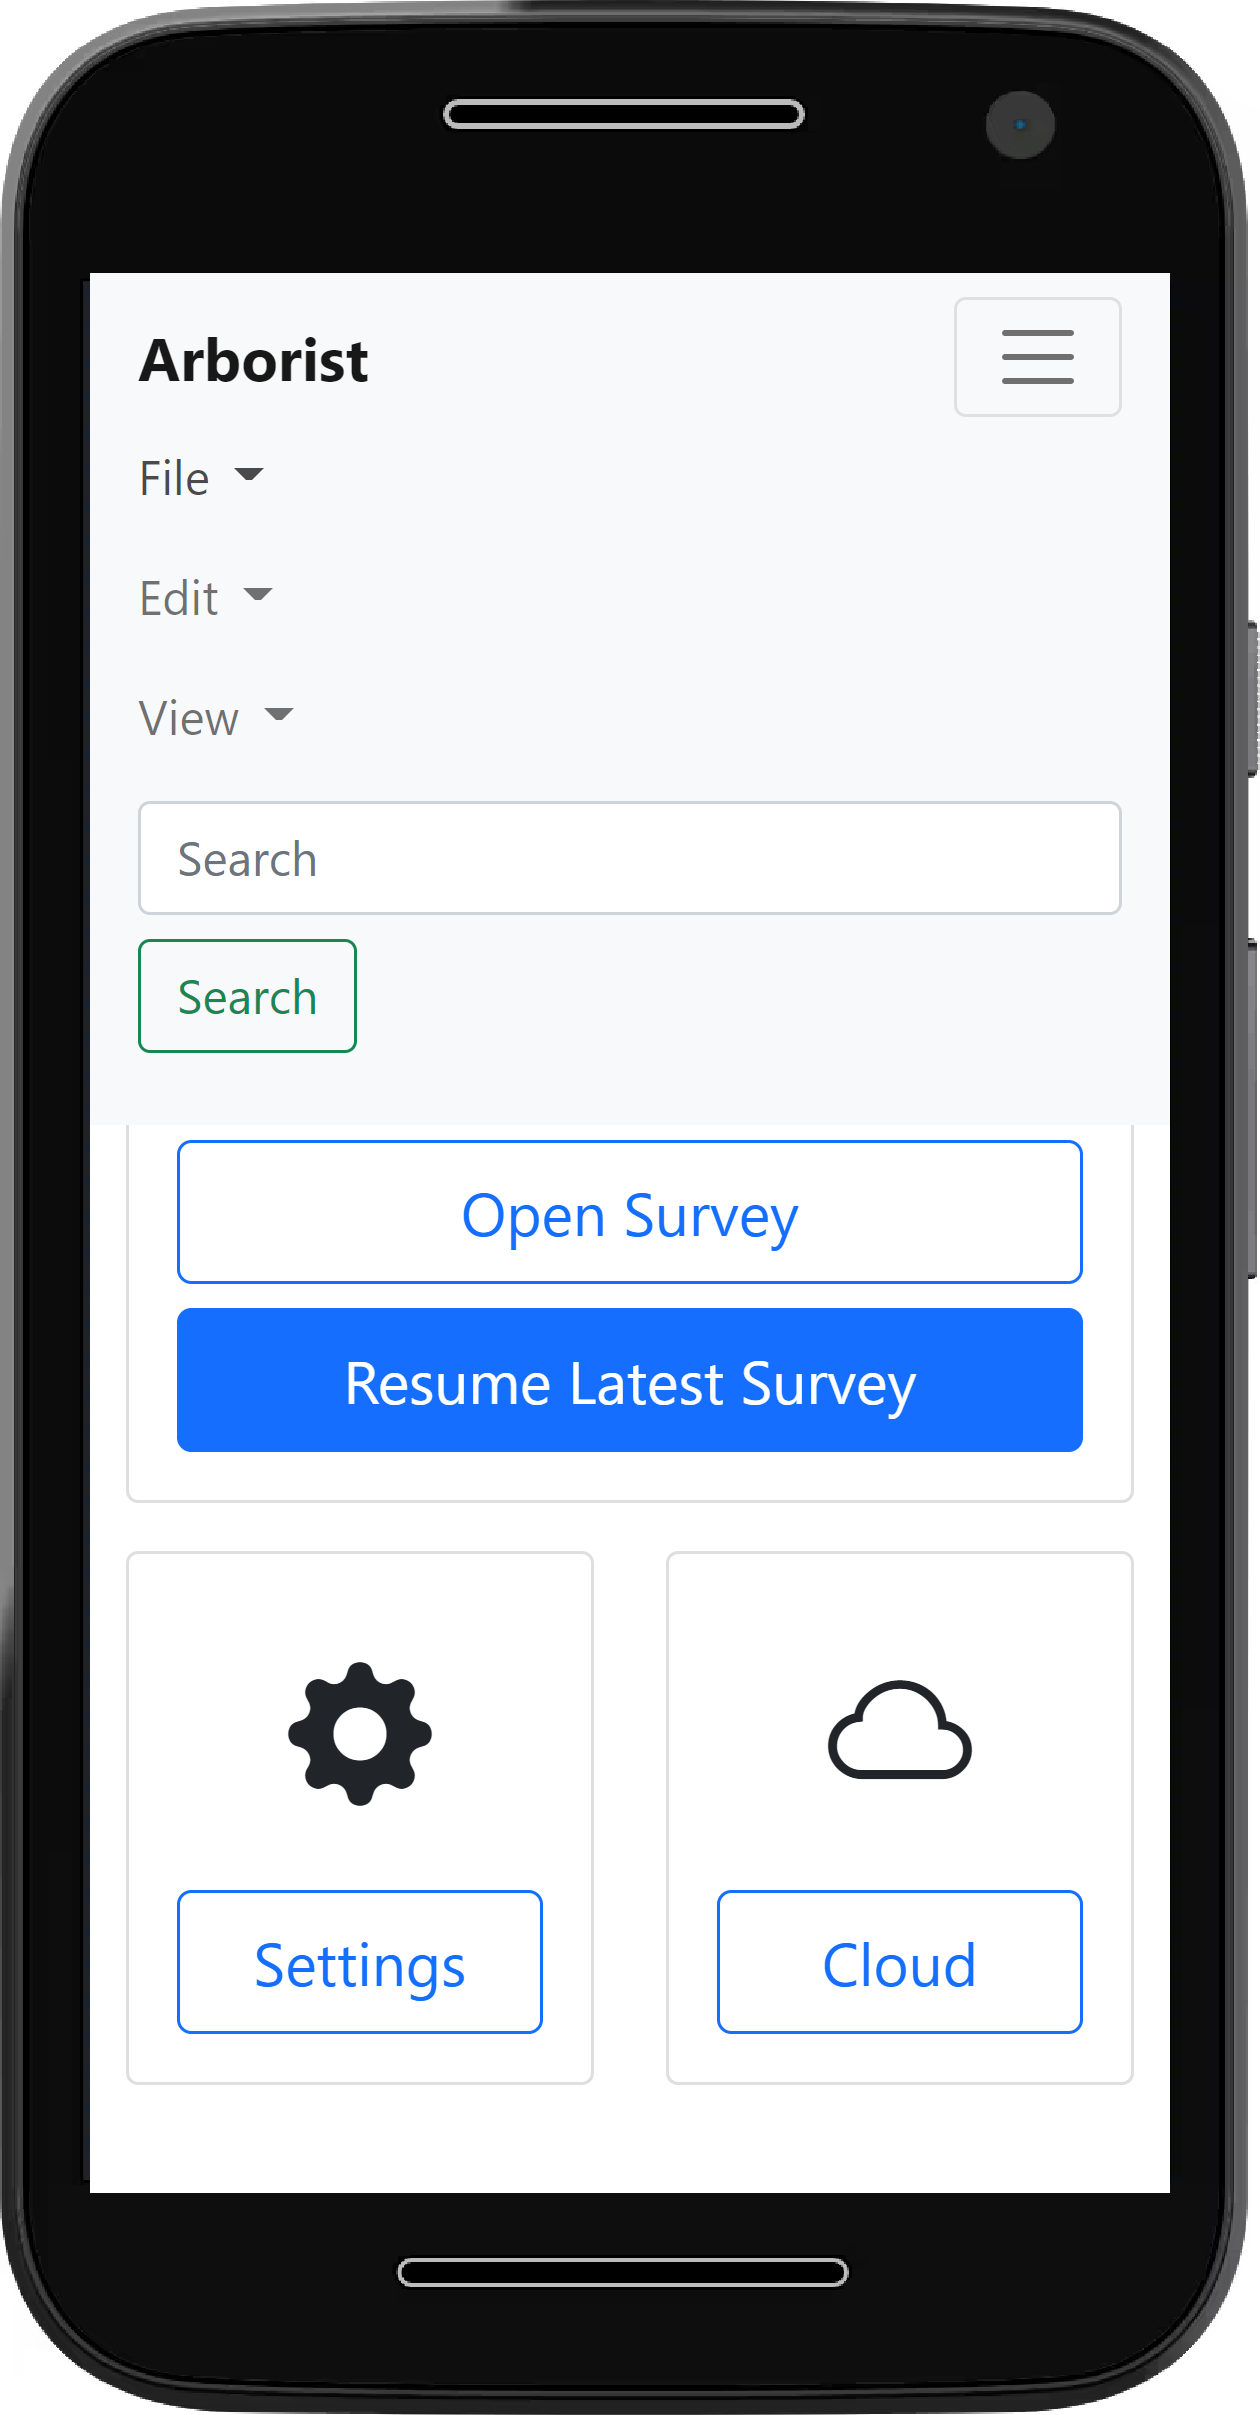
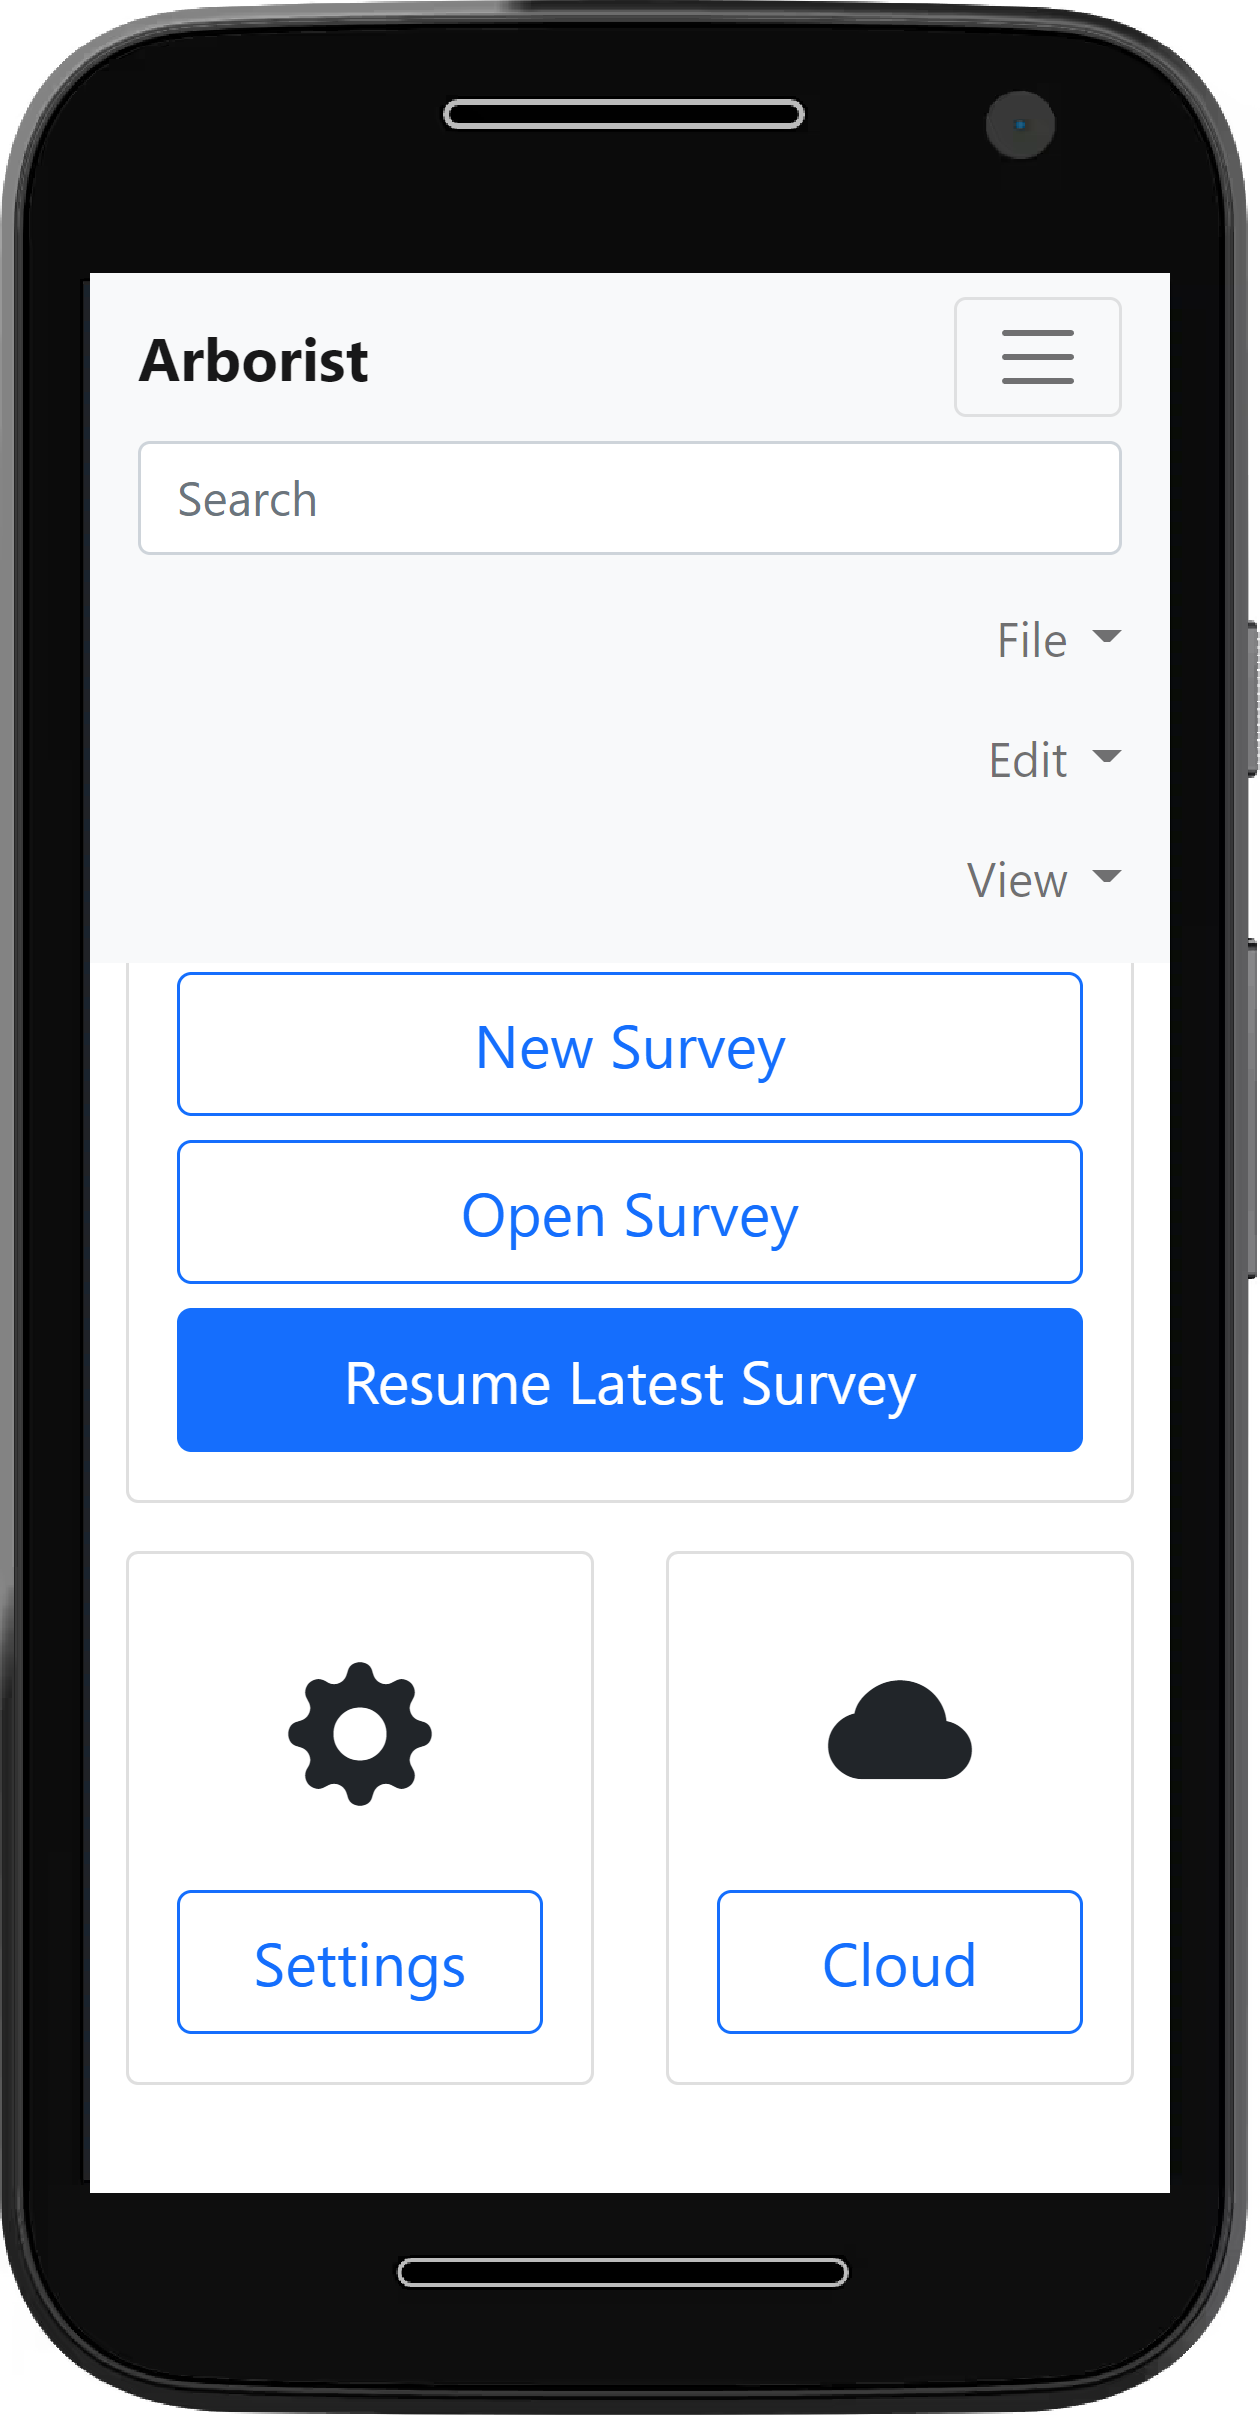
added screenshots of the application and further developed the interface

diff --git a/styles/main.css b/styles/main.css
@@ -160,3 +160,17 @@ tr:nth-child(even) {background: rgb(194, 194, 194)}
 .modal-footer h5{
     margin-right: auto !important;
 }
+
+.file-box{
+    display: inline-block;
+    text-align: center;
+    padding: .5em;
+}
+
+.file-box i{
+    font-size: 4em;
+}
+
+.file-box:hover{
+    background-color: rgb(190, 190, 190);
+}

diff --git a/scripts/scripts.js b/scripts/scripts.js
@@ -4,6 +4,8 @@ $(document).ready(function() {
         info: false,
         "dom": '<"top"i>rt<"bottom"flp><"clear">'
     } );
+
+    $('#openFileModal').modal('toggle');
 } );
 
 

diff --git a/includes/components/modals/settings.php b/includes/components/modals/settings.php
@@ -1,18 +1,91 @@
-<div class="modal fade" onclick ="settingsModal()" tabindex="-1" role="dialog" aria-labelledby="exampleModalLabel" aria-hidden="true">
+<div class="modal fade" id="settingsModal" tabindex="-1" role="dialog" aria-labelledby="exampleModalLabel" aria-hidden="true">
     <div class="modal-dialog" role="document">
       <div class="modal-content">
         <div class="modal-header">
           <h5 class="modal-title" id="exampleModalLabel"><i class="bi bi-gear-fill"></i> Settings</h5>
-          <button type="button" class="close" aria-label="Close" onclick="editCellModal()">
+          <button type="button" class="close" aria-label="Close" onclick="settingsModal()">
             <span aria-hidden="true">&times;</span>
           </button>
         </div>
         <div class="modal-body">
-          <form>
-            <div class="form-group">
-              <input type="text" class="form-control" id="recipient-name" placeholder="#.##">
+            <h6>Survey Settings</h6>
+            <form>
+                <div class="form-group">
+                    <div class="form-check form-switch">
+                        <input class="form-check-input" type="checkbox" id="flexSwitchCheckDefault" checked>
+                        <label class="form-check-label" for="flexSwitchCheckDefault">Record GPS position</label>
+                    </div>
+                    <div class="form-check form-switch">
+                        <input class="form-check-input" type="checkbox" id="flexSwitchCheckChecked" checked>
+                        <label class="form-check-label" for="flexSwitchCheckChecked">Record atmospheric conditions</label>
+                    </div>
+                    <div class="form-check form-switch">
+                        <input class="form-check-input" type="checkbox" id="flexSwitchCheckChecked">
+                        <label class="form-check-label" for="flexSwitchCheckChecked">Auto-classify new observations</label>
+                    </div>
+                </div>
+            </form>
+            <hr>
+            <h6>Instrument Settings</h6>
+
+            <form>
+                <div class="form-group">
+                    <div class="form-check form-switch">
+                        <input class="form-check-input" type="checkbox" id="flexSwitchCheckChecked" >
+                        <label class="form-check-label" for="flexSwitchCheckChecked">External GPS Receiver</label>
+                    </div>
+                    <div class="form-check form-switch">
+                        <input class="form-check-input" type="checkbox" id="flexSwitchCheckChecked" disabled>
+                        <label class="form-check-label" for="flexSwitchCheckChecked">Enable Differential GPS Mode</label>
+                    </div>
+                </div>
+            </form>
+
+
+            <hr>
+            <h6>File Settings</h6>
+            <form>
+                <div class="form-group">
+        <div class="input-group mb-3">
+            <div class="custom-file">
+                <input type="file" class="custom-file-input" id="inputGroupFile02">
+                <label class="custom-file-label" for="inputGroupFile02"><i class="bi bi-folder2-open"></i> Default File Path</label>
             </div>
-          </form>
+        </div>
+                </div>
+
+            Default File Format:
+
+            <div class="form-check">
+                <input class="form-check-input" type="radio" name="flexRadioDefault" id="flexRadioDefault1">
+                <label class="form-check-label" for="flexRadioDefault1">
+                    .csv
+                </label>
+                </div>
+            <div class="form-check">
+                <input class="form-check-input" type="radio" name="flexRadioDefault" id="flexRadioDefault2" checked>
+                <label class="form-check-label" for="flexRadioDefault2">
+                    .xls
+                </label>
+            </div>
+
+            <div class="form-check">
+                <input class="form-check-input" type="radio" name="flexRadioDefault" id="flexRadioDefault3" checked>
+                <label class="form-check-label" for="flexRadioDefault3">
+                    .txt
+                </label>
+            </div>
+            </form>
+
+            <hr>
+            <h6>Cloud Settings</h6>
+            <div class="form-check">
+                <input class="form-check-input" type="checkbox" value="" id="defaultCheck2">
+                <label class="form-check-label" for="defaultCheck2">
+                    Save observations to cloud
+                </label>
+            </div>
+
         </div>
         <div class="modal-footer">
           <button type="button" class="btn btn-primary">Change</button>

diff --git a/newsurvey.php b/newsurvey.php
@@ -1,9 +1,102 @@
 <?php include "includes/header.php" ?>
 
+<div class = "row">
+<div class = "col-sm-12">
+    <div class="card">
+        <div class="card-body">
+            <h4><i class="bi bi-map-fill"></i> Map</h4>
+            <div id="map"></div>
+        </div>
+    </div>
+</div>
 
 <div class = "col-sm-12">
-
+    <div class="card button-card">
+        <div class="card-body">
+        <button type="button" class="btn btn-primary btn-lg btn-block" onclick = "newObservationModal()">New Observation <i class="bi bi-geo-alt-fill"></i></button>
+        </div>
+    </div>
 </div>
 
 
+<div class = "col-sm-12">
+    <div class="card">
+        <div class="card-body">
+            <h4><i class="bi bi-info-circle-fill"></i> Details</h4>
+            <p>November 1st, 2021, 11:00:10AST</p>
+
+            <form>
+
+              <div class="form-group">
+                <label for="formGroupExampleInput2">Field Notes</label>
+                <textarea class="form-control" id="formGroupExampleInput2" rows="3" placeholder="Atmospheric pressure: 1013.2mbar&#13Instrument number: A967G1"></textarea>
+              </div>
+
+            </form>
+
+        </div>
+    </div>
+</div>
+
+<div class = "col-sm-12">
+    <div class="card point-list">
+        <div class="card-body">
+            <h4><i class="bi bi-geo-alt-fill"></i> Observations</h4>
+            <div class = "table-wrap">        
+                <table id = "pointTable" class="table">
+                    <thead>
+                    <tr>
+                        <th>ID</th>
+                        <th>Species</th>
+                        <th>Diam.</th>
+                        <th>Height</th>
+                        <th>Age</th>
+                        <th>Aspect</th>
+                        <th>Slope</th>
+                        <th>Notes</th>
+                    </tr>
+                    </thead>
+                    <tbody>
+                    
+                    </tbody>
+                </table>
+            </div>
+        </div>
+    </div>
+</div>
+
+
+
+<script src="https://d19vzq90twjlae.cloudfront.net/leaflet-0.7/leaflet.js">
+</script>
+
+<script>
+
+var map = L.map('map').setView([44.668349, -63.571144], 18);
+mapLink = 
+    '<a href="http://openstreetmap.org">OpenStreetMap</a>';
+L.tileLayer(
+    'http://{s}.tile.openstreetmap.org/{z}/{x}/{y}.png', {
+    attribution: '&copy; ' + mapLink + ' Contributors',
+    maxZoom: 18,
+    }).addTo(map);
+
+var marker = L.marker([44.668349, -63.571144]).addTo(map);
+
+var greenIcon = L.icon({
+    iconUrl: 'leaf-green.png',
+    shadowUrl: 'leaf-shadow.png',
+
+    iconSize:     [38, 95], // size of the icon
+    shadowSize:   [50, 64], // size of the shadow
+    iconAnchor:   [22, 94], // point of the icon which will correspond to marker's location
+    shadowAnchor: [4, 62],  // the same for the shadow
+    popupAnchor:  [-3, -76] // point from which the popup should open relative to the iconAnchor
+});
+
+
+
+</script>
+
 <?php include "includes/footer.php" ?>
+

diff --git a/includes/components/modals/newobservation.php b/includes/components/modals/newobservation.php
@@ -10,6 +10,22 @@
         </button>
       </div>
       <div class="modal-body">
+      <div id="map2"></div>   
+      <form>
+            <div class="input-group mb-3">
+                
+                <div class="input-group-prepend">
+                    <span class="input-group-text" id="basic-addon1"> <a href ="#">Lat.</a></span>
+                </div>
+                <input type="text" class="form-control" placeholder="0.0000" aria-label="Username" aria-describedby="basic-addon1">
+
+                <div class="input-group-prepend">
+                    <span class="input-group-text" id="basic-addon1"> <a href ="#" data-toggle="modal" data-target="#exampleModal2">Long.</a></span>
+                </div>
+                <input type="text" class="form-control" placeholder="0.0000" aria-label="Username" aria-describedby="basic-addon1">
+
+            </div>
+        </form>
       <p>November 1st, 2021, 13:05:10AST</p>
         <form class="form-inline">
             <div class="form-group">
@@ -22,6 +38,7 @@
                 <option>Birch</option>
                 </select>
             </div>
+            
 
             <div class="input-group mb-3">
                
@@ -60,26 +77,9 @@
 
 
         </form>
-        
-        <div id="map2"></div>
 
-        <form>
-            <div class="input-group mb-3">
-                
-                <div class="input-group-prepend">
-                    <span class="input-group-text" id="basic-addon1"> <a href ="#">Lat.</a></span>
-                </div>
-                <input type="text" class="form-control" placeholder="0.0000" aria-label="Username" aria-describedby="basic-addon1">
-
-                <div class="input-group-prepend">
-                    <span class="input-group-text" id="basic-addon1"> <a href ="#" data-toggle="modal" data-target="#exampleModal2">Long.</a></span>
-                </div>
-                <input type="text" class="form-control" placeholder="0.0000" aria-label="Username" aria-describedby="basic-addon1">
-
-            </div>
-        </form>
         <button type="button" class="btn btn-outline-primary  btn-lg btn-block" onclick="cameraModal()">
-            <i class="bi bi-camera"></i> Photograph
+            Photograph <i class="bi bi-camera"></i> 
             </button>
       </div>
 

diff --git a/includes/components/modals/surveyfileopen.php b/includes/components/modals/surveyfileopen.php
@@ -3,18 +3,41 @@
   <div class="modal-dialog" role="document">
     <div class="modal-content">
       <div class="modal-header">
-        <h5 class="modal-title" id="exampleModalLabel">Open Survey</h5>
+        <h5 class="modal-title" id="exampleModalLabel"><i class="bi bi-file-earmark-arrow-up"></i>Open Survey</h5>
         <button type="button" class="close" onclick = "openFileModal()" aria-label="Close">
           <span aria-hidden="true">&times;</span>
         </button>
       </div>
       <div class="modal-body">
+        <h6>Open Cloud File</h6>
+        <button type="button" class="btn btn-primary" >Open Cloud File</button>
+        <hr>
+        <h6>Choose File Path </h6>
         <div class="input-group mb-3">
             <div class="custom-file">
                 <input type="file" class="custom-file-input" id="inputGroupFile02">
-                <label class="custom-file-label" for="inputGroupFile02">File Path</label>
+                <label class="custom-file-label" for="inputGroupFile02"><i class="bi bi-folder2-open"></i> File Path</label>
             </div>
         </div>
+
+        <hr>
+        <h6>Open Recent</h6>
+          
+        <div class = "card file-box">
+          <i class="bi bi-file-earmark"></i>
+          <p>survey.csv</p>
+        </div>
+
+        <div class = "card file-box">
+          <i class="bi bi-file-earmark"></i>
+          <p>survey.csv</p>
+        </div>
+
+        <div class = "card file-box">
+          <i class="bi bi-file-earmark"></i>
+          <p>survey.csv</p>
+        </div>
+
       </div>
       <div class="modal-footer">
         <a href = "editsurvey.php"><button type="button" class="btn btn-primary" >Load</button></a>

diff --git a/includes/components/navbar.php b/includes/components/navbar.php
@@ -6,7 +6,10 @@
 
   <div class="collapse navbar-collapse" id="navbarSupportedContent">
     <ul class="navbar-nav mr-auto">
-        
+      <form class="form-inline my-2 my-lg-0">
+        <input class="form-control mr-sm-2" type="search" placeholder="Search" aria-label="Search">
+      </form>
+      
       <li class="nav-item dropdown">
         <a class="nav-link dropdown-toggle" href="#" id="navbarDropdown" role="button" data-toggle="dropdown" aria-haspopup="true" aria-expanded="false">
           File
@@ -34,7 +37,7 @@
           <a class="dropdown-item" href="#">Cut</a>
           <a class="dropdown-item" href="#">Paste</a>
           <div class="dropdown-divider"></div>
-          <a class="dropdown-item" href="#">Settings</a>
+          <a class="dropdown-item" href="#" onclick="settingsModal()">Settings</a>
         </div>
       </li>
 
@@ -49,9 +52,5 @@
       </li>
 
     </ul>
-    <form class="form-inline my-2 my-lg-0">
-      <input class="form-control mr-sm-2" type="search" placeholder="Search" aria-label="Search">
-      <button class="btn btn-outline-success my-2 my-sm-0" type="submit">Search</button>
-    </form>
   </div>
 </nav>

diff --git a/includes/components/modals/surveyfilenew.php b/includes/components/modals/surveyfilenew.php
@@ -4,7 +4,7 @@
   <div class="modal-dialog" role="document">
     <div class="modal-content">
       <div class="modal-header">
-        <h5 class="modal-title" id="exampleModalLabel">New Tree Survey</h5>
+        <h5 class="modal-title" id="exampleModalLabel"><i class="bi bi-file-earmark-plus"></i> New Tree Survey</h5>
         <button type="button" class="close" data-dismiss="modal" aria-label="Close">
           <span aria-hidden="true">&times;</span>
         </button>
@@ -13,7 +13,8 @@
         <div class="input-group mb-3">
             <div class="custom-file">
                 <input type="file" class="custom-file-input" id="inputGroupFile02">
-                <label class="custom-file-label" for="inputGroupFile02">File Path</label>
+                <label class="custom-file-label" for="inputGroupFile02"><i class="bi bi-folder2-open"></i>
+File Path</label>
             </div>
         </div>
 
